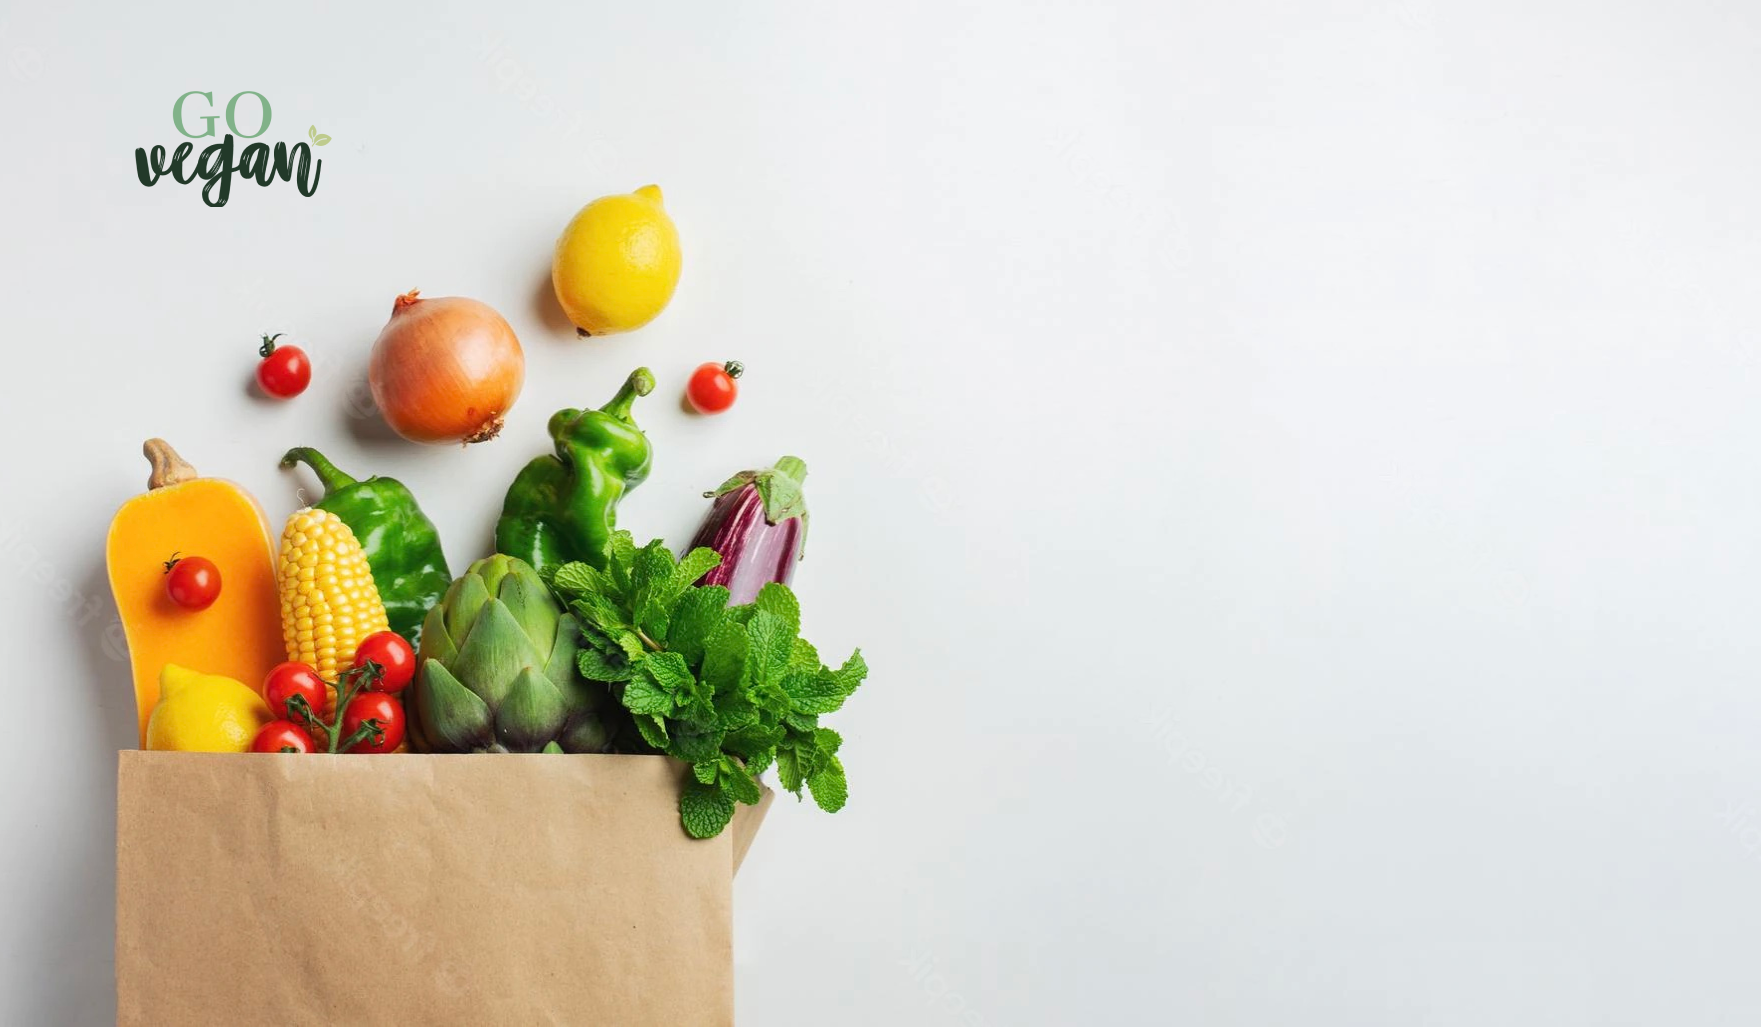
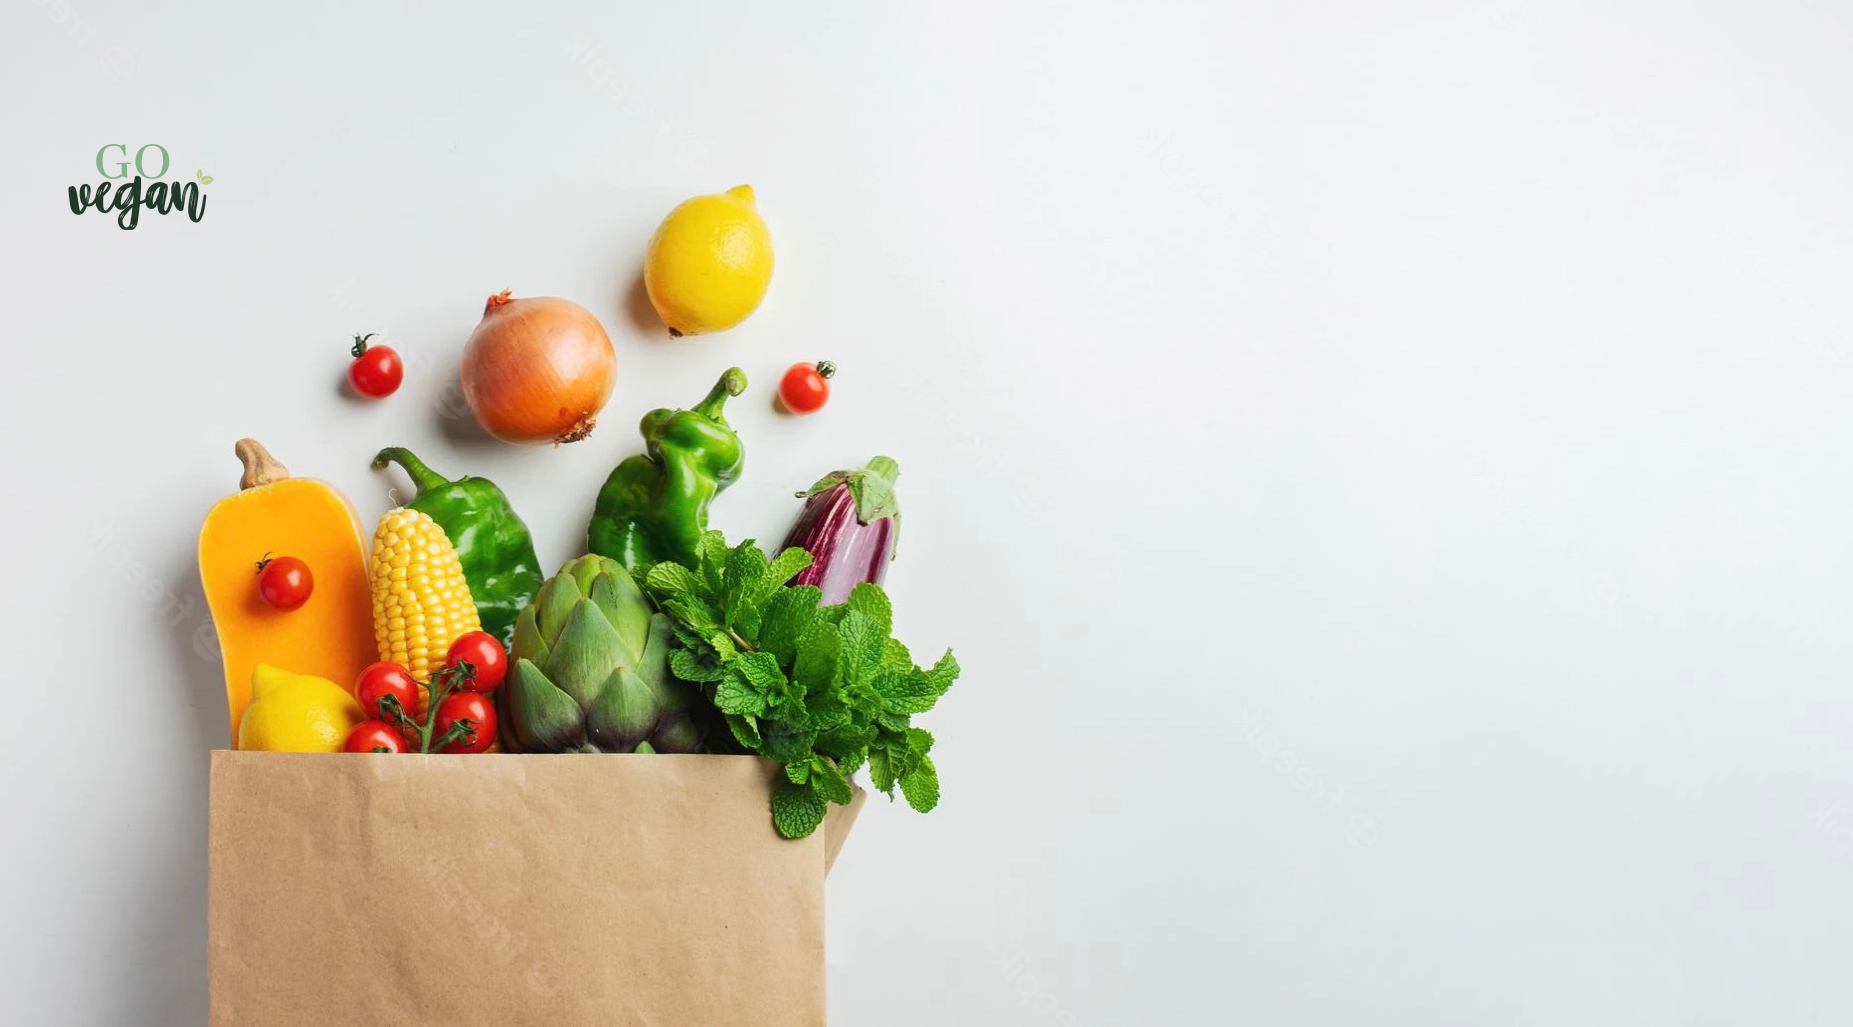
refactor: update register page background image and size

diff --git a/src/Routes/RegisterPage/index.css b/src/Routes/RegisterPage/index.css
@@ -1,7 +1,7 @@
 .register {
   width: 100vw;
   height: 100vh;
-  background: url(/assets/register-background.png) no-repeat center/100% 100% ;
+  background: url(/assets/register-background.png) no-repeat center/100%;
   display: flex;
   justify-content: end;
 }
